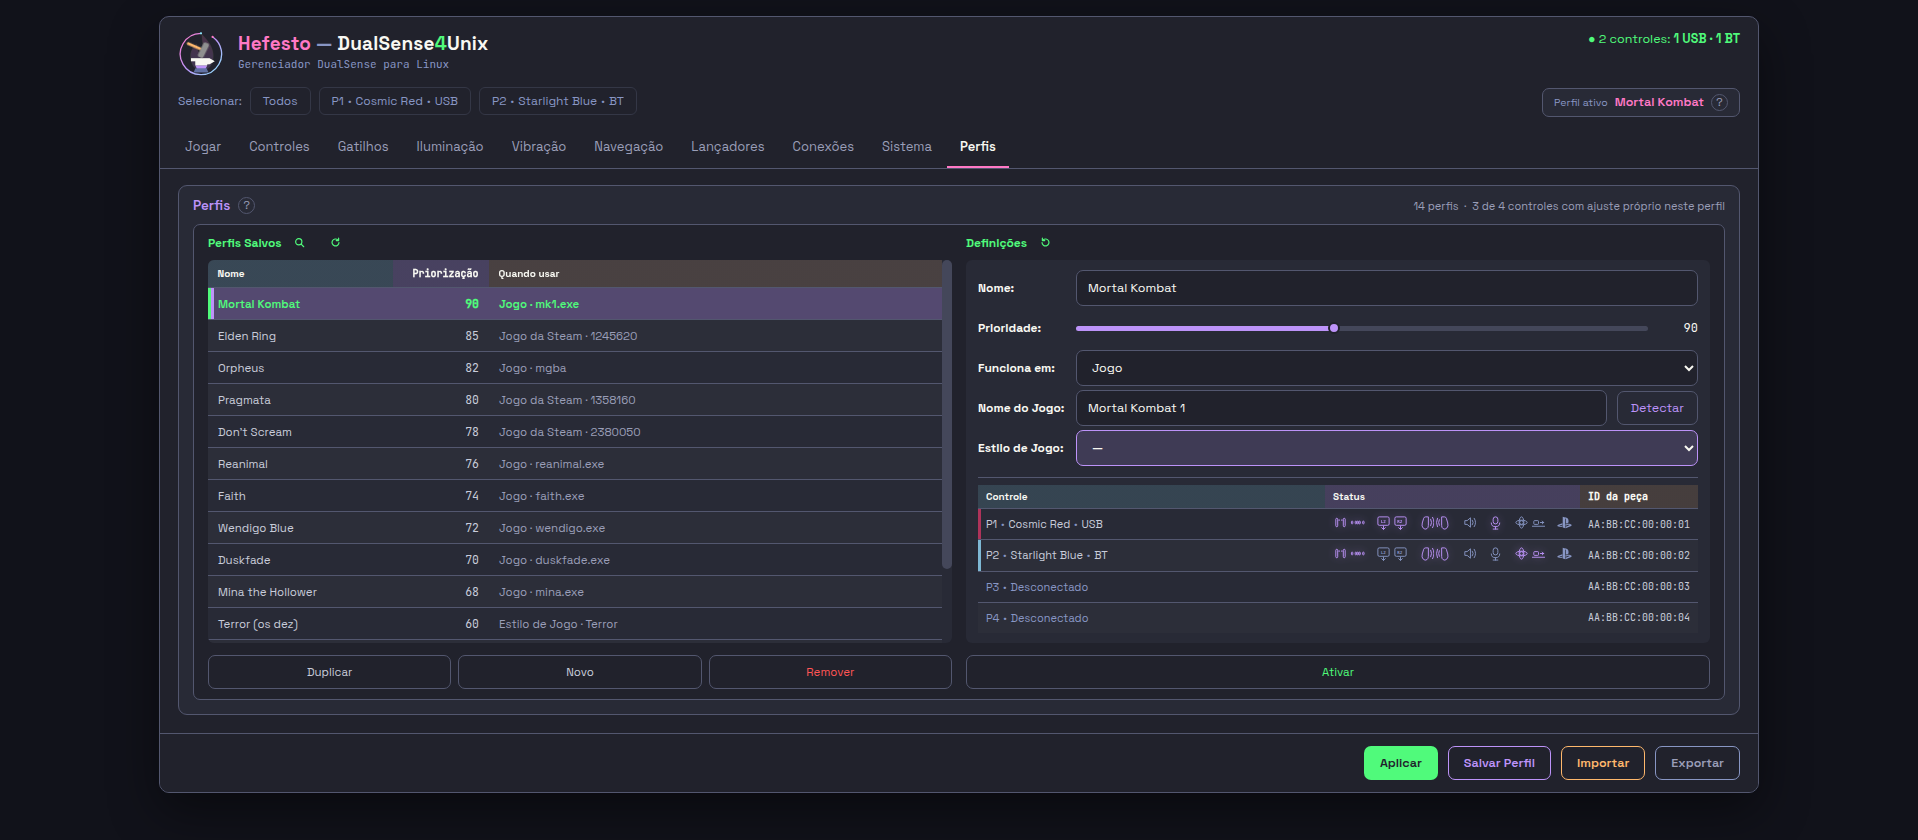
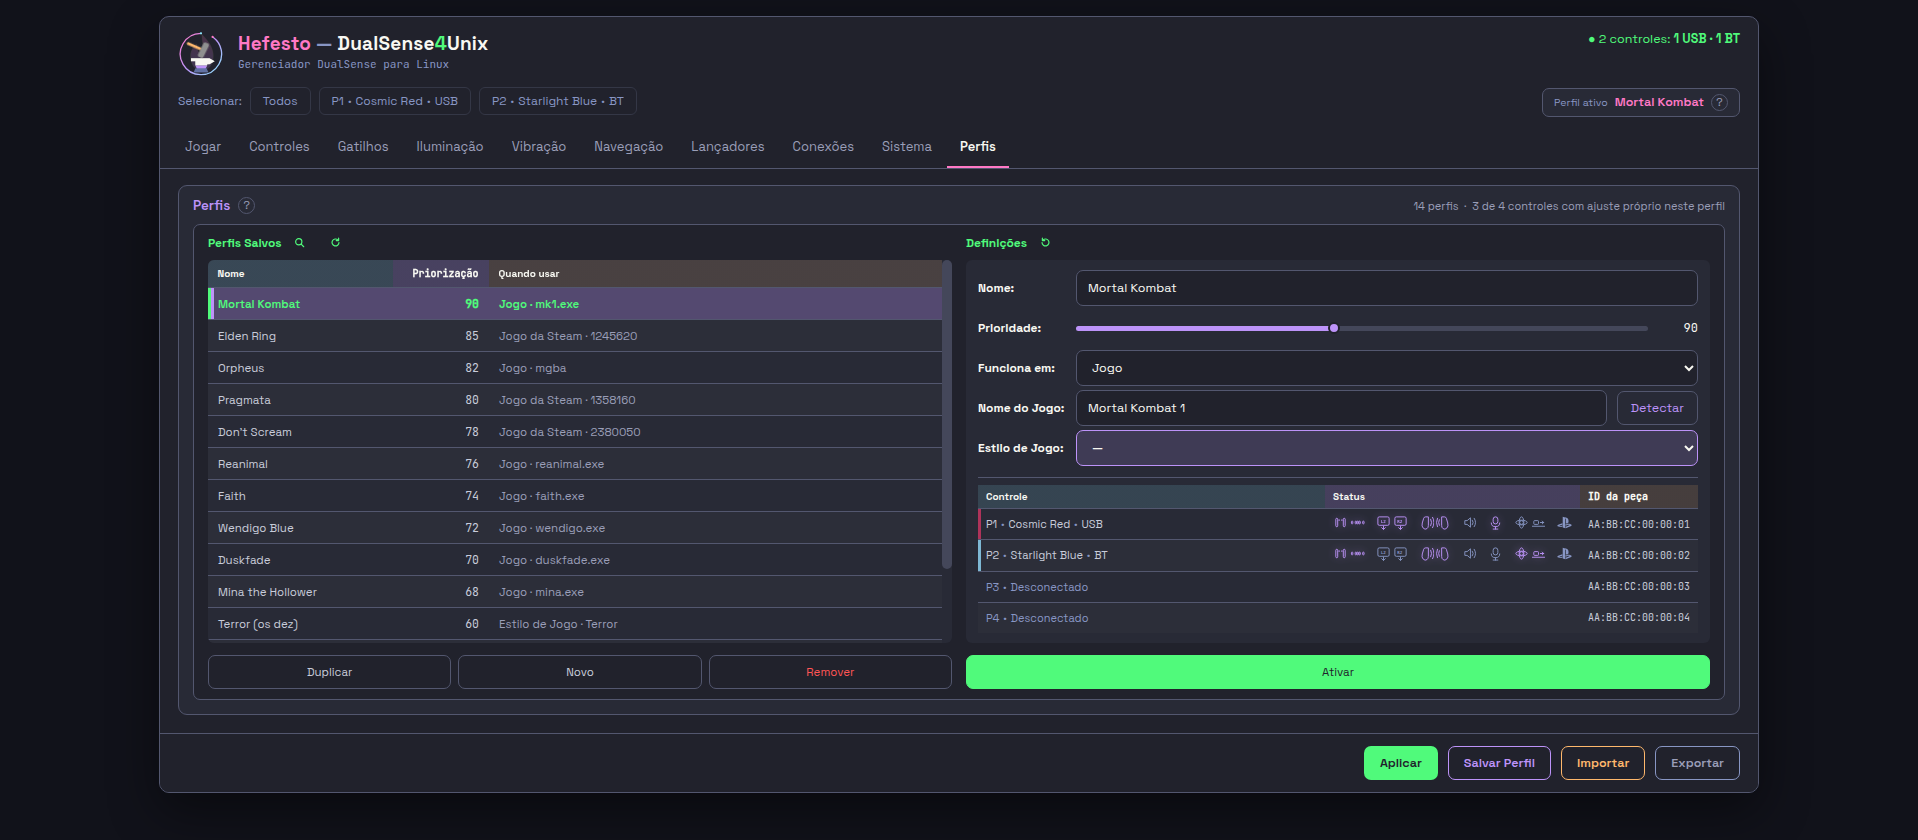
fix(tela): o «Achei este lançador aqui» sai dos cinco cartões, e o «Ativar» fica sólido
Duas ordens dela, 11/09/2026, com o produto instalado na frente:

> *"remove as frases do achei esse lançador aqui"*
> *"deixa esse botão verde do ativar igual o do aplicar"*

A FRASE ERA O SELO DE NOVO, EM PROSA. Cinco cartões empilhados — Heroic,
Lutris, Flatpak, RetroArch e Dolphin·mGBA — repetiam o mesmo parágrafo com o
caminho do `.desktop` no meio, e ela leu os cinco de uma vez. Quem responde «o
produto achou este lançador» é o selo `LOCALIZADO`; quantos jogos ele tem, a
linha de cima. A `DIZ_ACHEI` fica no código, vazia: ela é o LUGAR da frase
deste estado, e apagá-la faria o cartão do achado e o do não-achado deixarem
de ser simétricos.

E A RÉGUA COBRAVA O CAMINHO NA TELA. Ela passa a cobrar o contrário — que o
cartão achado seja o ÚNICO calado, e que os outros dois continuem falando,
porque neles o selo sozinho não diz o que fazer. Uma frase que volte a nascer
ali reprova.

O «Ativar» GANHA A FORMA DO «Aplicar»: fundo verde, texto na cor do fundo da
janela. O `.btn.verde` da casa pinta só o TEXTO, e era assim que ele nascia na
fileira de três; sozinho no canto largo ele é a ação principal da aba, e ela o
leu como tal. O seletor é local (`.botoes.um-so`) de propósito — a casa tem
outros botões verdes de contorno, e trocá-los todos mudaria nove telas que ela
não olhou.

56 portões verdes.

Changed region(s): [[0.4922, 0.7738, 0.8921, 0.8357]]

diff --git a/mockup/10-perfis.html b/mockup/10-perfis.html
@@ -1180,6 +1180,21 @@
   /* UM BOTÃO SÓ, e a grade de três o deixaria com um terço da largura e dois
      vãos vazios ao lado — que é mais sujo do que os três eram. 11/09/2026. */
   .botoes.um-so{grid-template-columns:1fr}
+  /* O «Ativar» É SÓLIDO COMO O «Aplicar» — ordem dela, 11/09/2026: *"deixa esse
+     botão verde do ativar igual o do aplicar"*.  (noqa-acento) citação literal dela
+     O `.btn.verde` da casa pinta só o TEXTO de verde, e é assim que o `Ativar`
+     nasceu na fileira da esquerda, ao lado de dois irmãos de contorno. Sozinho
+     no canto largo ele é a ação PRINCIPAL desta aba, e ela o leu como tal: a
+     mesma forma do `r-aplicar` do rodapé (fundo verde, texto na cor do fundo
+     da janela), que é o único outro botão desta tela que faz alguma coisa
+     acontecer nos controles agora.
+     O SELETOR É LOCAL DE PROPÓSITO — `.botoes.um-so` e não `.btn.verde`: a casa
+     tem outros botões verdes de contorno, e trocá-los todos por causa deste
+     mudaria nove telas que ela não olhou. */
+  .botoes.um-so .btn.verde{background:var(--green);color:var(--app-bg);
+                           border-color:var(--green)}
+  .botoes.um-so .btn.verde:hover{background:var(--green);color:var(--app-bg);
+                                 border-color:var(--green)}
   /* os campos do editor, todos na mesma grade */
   /* os campos ficam sobre o MESMO fundo da tabela ao lado, e assim os três botões
      de baixo nascem na mesma base nos dois blocos. */

diff --git a/src/hefesto_dualsense4unix/interface/paginas/10-perfis.html b/src/hefesto_dualsense4unix/interface/paginas/10-perfis.html
@@ -1180,6 +1180,21 @@
   /* UM BOTÃO SÓ, e a grade de três o deixaria com um terço da largura e dois
      vãos vazios ao lado — que é mais sujo do que os três eram. 11/09/2026. */
   .botoes.um-so{grid-template-columns:1fr}
+  /* O «Ativar» É SÓLIDO COMO O «Aplicar» — ordem dela, 11/09/2026: *"deixa esse
+     botão verde do ativar igual o do aplicar"*.  (noqa-acento) citação literal dela
+     O `.btn.verde` da casa pinta só o TEXTO de verde, e é assim que o `Ativar`
+     nasceu na fileira da esquerda, ao lado de dois irmãos de contorno. Sozinho
+     no canto largo ele é a ação PRINCIPAL desta aba, e ela o leu como tal: a
+     mesma forma do `r-aplicar` do rodapé (fundo verde, texto na cor do fundo
+     da janela), que é o único outro botão desta tela que faz alguma coisa
+     acontecer nos controles agora.
+     O SELETOR É LOCAL DE PROPÓSITO — `.botoes.um-so` e não `.btn.verde`: a casa
+     tem outros botões verdes de contorno, e trocá-los todos por causa deste
+     mudaria nove telas que ela não olhou. */
+  .botoes.um-so .btn.verde{background:var(--green);color:var(--app-bg);
+                           border-color:var(--green)}
+  .botoes.um-so .btn.verde:hover{background:var(--green);color:var(--app-bg);
+                                 border-color:var(--green)}
   /* os campos do editor, todos na mesma grade */
   /* os campos ficam sobre o MESMO fundo da tabela ao lado, e assim os três botões
      de baixo nascem na mesma base nos dois blocos. */

diff --git a/src/hefesto_dualsense4unix/interface/desenho_dos_lancadores.py b/src/hefesto_dualsense4unix/interface/desenho_dos_lancadores.py
@@ -879,14 +879,24 @@ DIZ_SEM_FONTE = (
     "por aqui entra pelo mesmo caminho de qualquer outro."
 )
 
-#: A frase de quem PROCUROU E ACHOU. O `{onde}` é o atalho ou o comando que
-#: denunciou o lançador — dizer ONDE é o que separa esta frase de um palpite,
-#: e é o que deixa ela conferir a resposta sem acreditar em mim.
-DIZ_ACHEI = (
-    "<b>Achei este lançador aqui</b> (<code>{onde}</code>). O perfil casa pelo "
-    "nome do processo e pela janela, então um jogo aberto por aqui entra pelo "
-    "mesmo caminho de qualquer outro."
-)
+#: A frase de quem PROCUROU E ACHOU — **VAZIA DESDE 11/09/2026, ordem dela**:
+#: *"remove as frases do achei esse lançador aqui"*.  <!-- noqa-acento: citação literal dela -->
+#:
+#: O CARTÃO JÁ DIZ AS DUAS COISAS SEM ELA. O selo `LOCALIZADO` responde *"o
+#: produto achou este lançador"*, e a linha de cima responde quantos jogos ele
+#: tem — a frase repetia o selo em prosa, no plural, em cinco cartões
+#: empilhados. Ela viu os cinco de uma vez e recusou os cinco.
+#:
+#: **O CAMINHO NÃO SE PERDEU, mudou de lugar**: ele continua sendo lido e
+#: continua sendo o que o `presente=True` afirma; o que saiu foi pintá-lo na
+#: tela. Quem precisa conferir por onde o produto achou o lançador tem o
+#: `doctor`, que imprime o atalho e o comando de cada um.
+#:
+#: A CONSTANTE FICA, e vazia de propósito — ela é o LUGAR da frase deste
+#: estado, e apagá-la faria o cartão do achado e o do não-achado deixarem de
+#: ser simétricos no código. As réguas que perguntam pelo estado continuam
+#: tendo a quem perguntar.
+DIZ_ACHEI = ""
 
 #: A frase de quem PROCUROU E NÃO ACHOU.
 #:
@@ -1843,7 +1853,7 @@ def cartao_sem_censo(item: SemCenso, onde: str | None,
     return Lancador(
         chave=item.chave, nome=item.nome, selo="localizado",
         jogos=resumo or "—",
-        diz=DIZ_ACHEI.format(onde=_e(onde)),
+        diz=DIZ_ACHEI,
         acoes=abrir + localizar + tirar, presente=True)
 
 

diff --git a/tests/unit/test_a_aba_lancadores_diz_a_verdade.py b/tests/unit/test_a_aba_lancadores_diz_a_verdade.py
@@ -648,9 +648,25 @@ def test_o_cartao_achado_e_o_nao_achado_dizem_coisas_diferentes(desenho):
     assert len({nao_procurei.diz, nao_achei.diz, achei.diz}) == 3, (
         "dois dos três estados dizem a MESMA frase — a tela voltou a não "
         "separar 'procurei e não achei' de 'ainda não procurei'")
-    assert "com.heroicgameslauncher.hgl.desktop" in achei.diz, (
-        "o cartão diz que achou e não diz ONDE — sem isso ela não tem como "
-        "conferir a resposta sem acreditar em mim")
+    # O CARTÃO ACHADO É O ÚNICO SEM FRASE — 11/09/2026, ordem dela:
+    # *"remove as frases do achei esse lançador aqui"*.  (noqa-acento) citação
+    # Aqui estava cravado o caminho do `.desktop`, e a régua cobrava que a tela
+    # o pintasse. Ela olhou cinco cartões empilhados repetindo o mesmo parágrafo
+    # e recusou os cinco: quem responde *"o produto achou este lançador"* é o
+    # SELO, e a linha de cima diz quantos jogos ele tem. A frase era o selo de
+    # novo, em prosa.
+    #
+    # O QUE A RÉGUA COBRA AGORA é o que sobrou de verdade: que o estado ACHADO
+    # continue distinguível dos outros dois na tela — pelo selo e pelo
+    # `presente`, que as linhas acima já medem — e que ele seja o único calado.
+    # Uma frase que voltasse a nascer aqui reprovaria, e é isso que morde.
+    assert achei.diz == "", (
+        f"o cartão do lançador ACHADO voltou a falar: {achei.diz!r}. Ela o "
+        f"calou em 11/09 — o selo `LOCALIZADO` e a contagem de jogos já dizem "
+        f"tudo o que a frase dizia")
+    assert nao_achei.diz and nao_procurei.diz, (
+        "o cartão calado tinha de ser SÓ o do achado — os outros dois estados "
+        "precisam da frase, porque neles o selo sozinho não diz o que fazer")
 
 
 def test_todo_cartao_tem_botao_nos_tres_estados_e_o_do_ausente_e_outro(desenho):

diff --git a/src/hefesto_dualsense4unix/interface/aba10.py b/src/hefesto_dualsense4unix/interface/aba10.py
@@ -519,6 +519,21 @@ CSS = CSS_GLIFO + """
   /* UM BOTÃO SÓ, e a grade de três o deixaria com um terço da largura e dois
      vãos vazios ao lado — que é mais sujo do que os três eram. 11/09/2026. */
   .botoes.um-so{grid-template-columns:1fr}
+  /* O «Ativar» É SÓLIDO COMO O «Aplicar» — ordem dela, 11/09/2026: *"deixa esse
+     botão verde do ativar igual o do aplicar"*.  (noqa-acento) citação literal dela
+     O `.btn.verde` da casa pinta só o TEXTO de verde, e é assim que o `Ativar`
+     nasceu na fileira da esquerda, ao lado de dois irmãos de contorno. Sozinho
+     no canto largo ele é a ação PRINCIPAL desta aba, e ela o leu como tal: a
+     mesma forma do `r-aplicar` do rodapé (fundo verde, texto na cor do fundo
+     da janela), que é o único outro botão desta tela que faz alguma coisa
+     acontecer nos controles agora.
+     O SELETOR É LOCAL DE PROPÓSITO — `.botoes.um-so` e não `.btn.verde`: a casa
+     tem outros botões verdes de contorno, e trocá-los todos por causa deste
+     mudaria nove telas que ela não olhou. */
+  .botoes.um-so .btn.verde{background:var(--green);color:var(--app-bg);
+                           border-color:var(--green)}
+  .botoes.um-so .btn.verde:hover{background:var(--green);color:var(--app-bg);
+                                 border-color:var(--green)}
   /* os campos do editor, todos na mesma grade */
   /* os campos ficam sobre o MESMO fundo da tabela ao lado, e assim os três botões
      de baixo nascem na mesma base nos dois blocos. */
